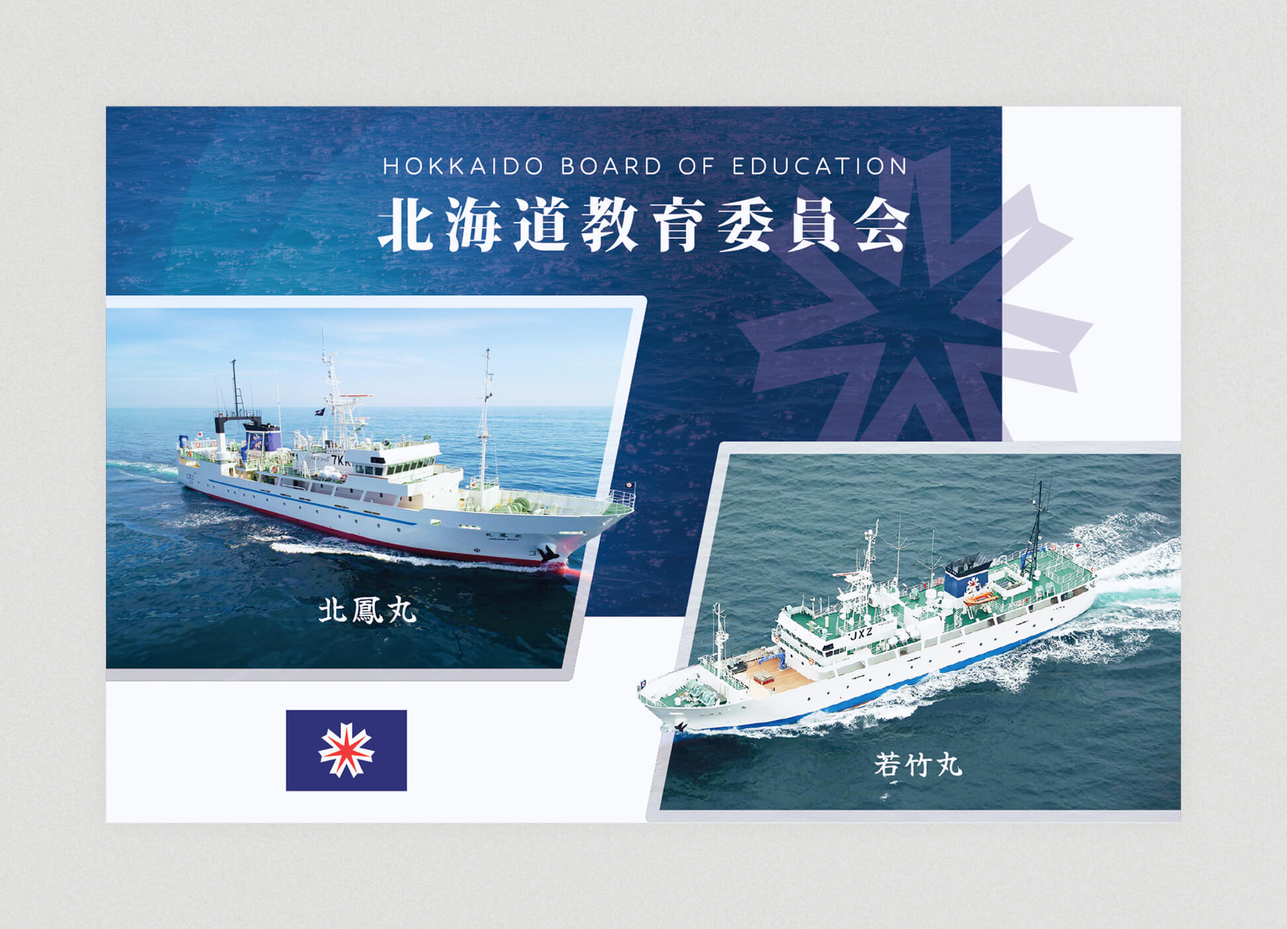
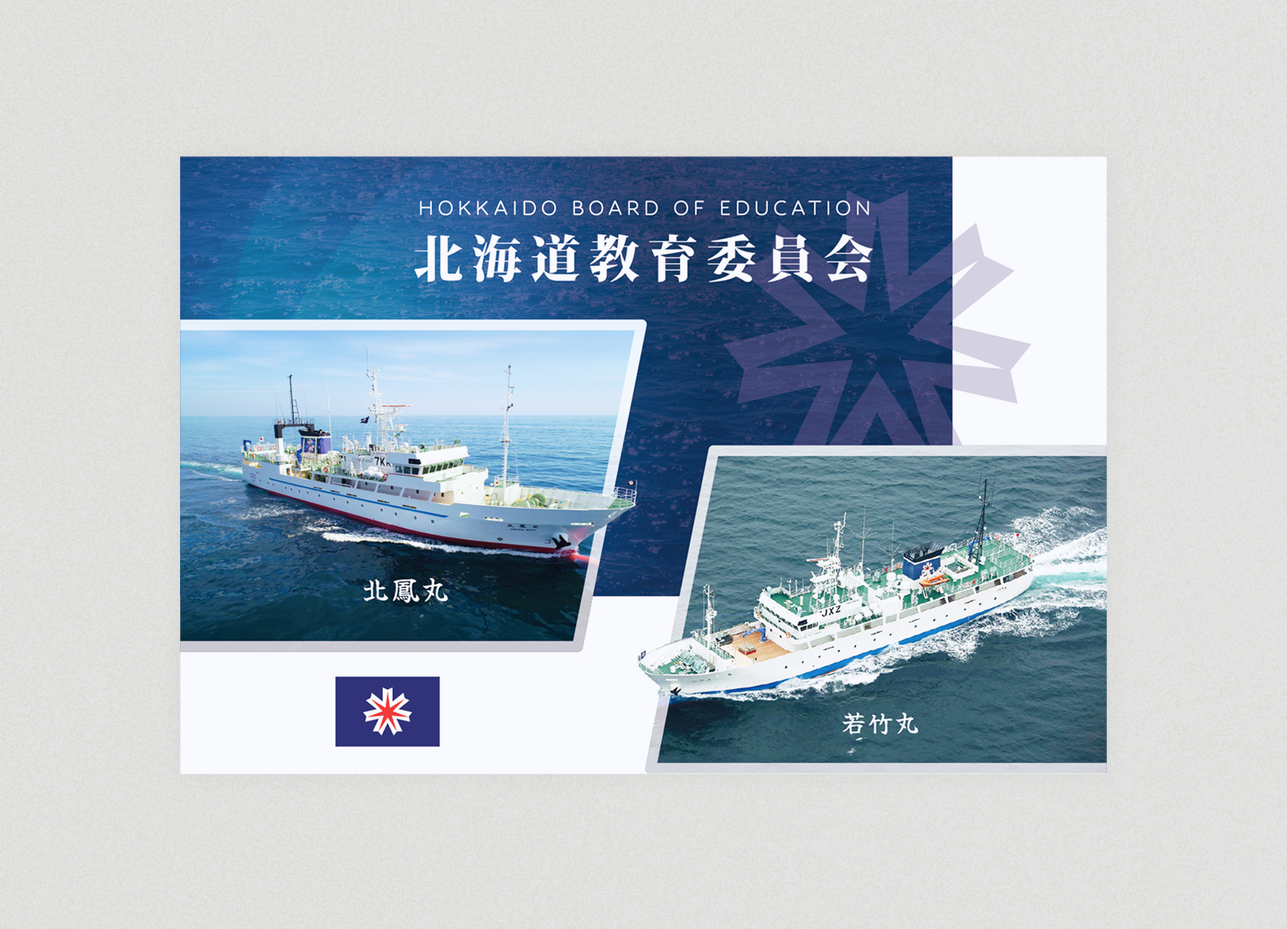
文章修正

diff --git a/works-keitonoyaoyasan.html b/works-keitonoyaoyasan.html
@@ -278,7 +278,9 @@
               「八百屋さんみたいな感じで、いろんな野菜が並んでたら可愛くないかな？」
             </h3>
             <p class="p-work-story__text">
-              普段は保育士として働きながら、趣味で始めた野菜の編みぐるみをminneやメルカリなどで販売しているハンドメイド作家で、私の知り合いでもあるponさん。BASEでオンラインショップを作ったり編み図を販売したいと考えているタイミングで、「作品だけでなく、自分らしい世界観も伝えられる場所を作りたい。」という相談をいただきました。
+              普段は保育士として働きながら、趣味で始めた野菜の編みぐるみをminneやメルカリなどで販売している、ハンドメイド作家で私の知り合いでもあるponさん。<br
+                class="sp-only"
+              />BASEでオンラインショップを作ったり編み図を販売したいと考えているタイミングで、「作品だけでなく、自分らしい世界観も伝えられる場所を作りたい。」という相談をいただきました。<br />
               そんな中、ブランドについて話をはじめてすぐに、ponさんの方から話してくれたアイデアが「八百屋さん」でした。その言葉から「毛糸の八百屋さん」というコンセプトが生まれ、その世界観をどう形にしていくか、一緒に整理することからスタートしました。
             </p>
           </div>
@@ -290,7 +292,7 @@
               <div class="p-work-story__content">
                 <p class="p-work-story__text">
                   ponさんの可愛らしい編みぐるみは、すべてひとあみひとあみ手作業で作られています。
-                  今ではたくさんの野菜や果物を販売していますが、始まりは思いつきで編んでみた1本のにんじん。試作を重ねたり、「こんなものも作れますか？」というオーダーに応えたりしながら、長い時間をかけて少しずつ種類が増えていったそうです。さらに、子どもの手になじむ形や、毛糸だけで作ることで安心して遊べる工夫には、保育士として子どもたちと向き合ってきたponさんならではの想いが込められているとも感じました。その話を聞いているうちに、私には「作品を作っている」というよりも、一つひとつの野菜を大切に「育てている」というイメージがまさに「毛糸の八百屋さん」の世界観とぴったりだな！と感じました。
+                  今ではたくさんの野菜や果物を販売していますが、始まりは思いつきで編んでみた1本のにんじん。試作を重ねたり、「こんなものも作れますか？」というオーダーに応えたりしながら、長い時間をかけて少しずつ種類が増えていったそうです。さらに、子どもの手になじむ形や、毛糸だけで作ることで安心して遊べる工夫には、保育士として子どもたちと向き合ってきたponさんならではの想いが込められているとも感じました。<br />そんな話を聞いているうちに、私には「作品を作っている」というよりも、一つひとつの野菜を大切に「育てている」というイメージがまさに「毛糸の八百屋さん」の世界観とぴったりだな！と感じました。
                 </p>
               </div>
               <div class="p-work-story__image">
@@ -321,7 +323,7 @@
                 </h3>
                 <p class="p-work-story__text">
                   だからこそ、サイトでは作品を並べるだけではなく、お気に入りの野菜を選ぶような楽しさや、一つひとつ違う個性にときめく体験そのものをブランドとして表現したいと考えました。サイト全体は、絵本をめくるように世界観を楽しめるデザインを意識し、「収穫日記」や「出荷」といった言葉も取り入れながら、八百屋を訪れたようなブランド体験を設計しました。<br />
-                  作品に出会い、ブランドを知り、その世界観に惹かれ、「これがほしい」と選んでもらえる。そんな世界観を届けられるを目指しました。
+                  作品に出会い、ブランドを知り、その世界観に惹かれ、「これがほしい」と選んでもらえる。そんな世界観を届けられるサイトを目指しました。
                 </p>
               </div>
             </div>
@@ -331,51 +333,55 @@
               ここからが本番！サイトもブランドも育ち続けます。
             </h3>
             <p class="p-work-story__text">
-              完成したサイトでは、Instagramやオンラインショップと連携し、ブランドとの接点がサイトだけで終わらないよう導線を設計しました。発送前にはInstagramで作品を紹介し、届くまでのワクワクを感じてもらう。作品と一緒にショップカードを同封し、サイトを訪れるきっかけをつくる。さらに、収穫日記や新作情報を更新することで、ブランドに継続して触れてもらえる仕組みを考えました。とはいえ、「毛糸の八百屋さん」はまだオープンしたばかりです。これからどんなきっかけでサイトを見てもらえるのか、どんな作品に興味を持ってもらえるのか。アクセス分析を行いながら、コンテンツや導線を少しずつ改善し、ブランドサイトを育てていきたいと考えています。ponさんとは、「いつか子どもが『これ、毛糸の八百屋さんで買ったとうもろこしだよ！』って言いながら遊んでくれたら可愛いし嬉しいね。」と想像を膨らませたことがあります。そんなふうに、このブランドが誰かにとって身近な存在になってくれたら嬉しいです。
+              完成したサイトでは、Instagramやオンラインショップと連携し、ブランドとの接点がサイトだけで終わらないよう導線を設計しました。発送前にはInstagramで作品を紹介し、届くまでのワクワクを感じてもらう。作品と一緒にショップカードを同封し、サイトを訪れるきっかけをつくる。さらに、収穫日記や新作情報を更新することで、ブランドに継続して触れてもらえる仕組みを考えました。<br />ですが、「毛糸の八百屋さん」はまだオープンしたばかりです。これからどんなきっかけでサイトを見てもらえるのか、どんな作品に興味を持ってもらえるのか。アクセス分析を行いながら、コンテンツや導線を少しずつ改善し、ブランドサイトを育てていきたいと考えています。<br
+                class="sp-only"
+              />ponさんとは、「いつか子どもが『これ、毛糸の八百屋さんで買ったとうもろこしだよ！』って言いながら遊んでくれたら可愛いし嬉しいね。」と想像を膨らませたことがあります。そんなふうに、このブランドが誰かにとって身近な存在になってくれたら嬉しいです。
             </p>
           </div>
         </div>
       </section>
       <section class="p-work-output p-work-output--keitonoyaoyasan">
         <div class="p__inner--l">
-          <h2 class="visually-hidden">アウトプット</h2>
-          <div class="p-work-output__visuals-row">
+          <div class="p-work-output--inner">
+            <h2 class="visually-hidden">アウトプット</h2>
+            <div class="p-work-output__visuals-row">
+              <div class="p-work-output__visual-wrap">
+                <h3 class="p-work-output__title">LOGO</h3>
+                <img
+                  src="img/work--keitonoyaoyasan-logo.png"
+                  width="368"
+                  height="368"
+                  alt="毛糸の八百屋さん ハンドメイド作家ponのLOGO"
+                  loading="lazy"
+                  decoding="async"
+                />
+              </div>
+              <div class="p-work-output__visual-wrap">
+                <h3 class="p-work-output__title">SHOPCARD</h3>
+                <img
+                  src="img/work-output--keitonoyaoyasan-shopcard.jpg"
+                  width="654"
+                  height="368"
+                  alt="毛糸の八百屋さん ショップアードの表示"
+                  loading="lazy"
+                  decoding="async"
+                />
+              </div>
+            </div>
             <div class="p-work-output__visual-wrap">
-              <h3 class="p-work-output__title">LOGO</h3>
+              <h3 class="p-work-output__title">WEBSITE</h3>
               <img
-                src="img/work--keitonoyaoyasan-logo.png"
-                width="368"
-                height="368"
-                alt="毛糸の八百屋さん ハンドメイド作家ponのLOGO"
+                src="img/work-outpu-web--keitonoyaoyasan-web.jpg"
+                width="1120"
+                height="680"
+                alt="毛糸の八百屋さん ブランドサイトの表示"
                 loading="lazy"
                 decoding="async"
               />
             </div>
-            <div class="p-work-output__visual-wrap">
-              <h3 class="p-work-output__title">SHOPCARD</h3>
-              <img
-                src="img/work-output--keitonoyaoyasan-shopcard.jpg"
-                width="654"
-                height="368"
-                alt="毛糸の八百屋さん ショップアードの表示"
-                loading="lazy"
-                decoding="async"
-              />
-            </div>
-          </div>
-          <div class="p-work-output__visual-wrap">
-            <h3 class="p-work-output__title">WEBSITE</h3>
-            <img
-              src="img/work-outpu-web--katsumi-web.jpg"
-              width="1120"
-              height="680"
-              alt="毛糸の八百屋さん ブランドサイトの表示"
-              loading="lazy"
-              decoding="async"
-            />
           </div>
           <div class="p-work-output__url-wrap">
-            <a class="p-work-output__url" href="https://katsumitsushin.jp/">
+            <a class="p-work-output__url" href="https://keitonoyaoyasan.com/">
               <span class="p-work-output__url-name"
                 >毛糸の八百屋さんブランドサイト</span
               >

diff --git a/works-katsumi.html b/works-katsumi.html
@@ -180,7 +180,7 @@
               <div class="p-work-detail__info-row">
                 <dt class="p-work-detail__info-header">概要</dt>
                 <dd class="p-work-detail__info-data">
-                  通信インフラを支える企業のコーポレートサイトリニューアル。ヒアリングを通して見えてきた「人を愛し、人を信じる」という理念と、人々の日常を守る仕事の価値や、向き合う姿勢を形にしました。
+                  通信インフラを支える企業のコーポレートサイトをリニューアル。ヒアリングを重ねる中で見えてきた、「人を愛し、人を信じる」という理念にも通じる皆さんの温かな人柄や、当たり前の日常を支える仕事への想いを形にしました。
                 </dd>
               </div>
               <div class="p-work-detail__info-row">
@@ -263,11 +263,15 @@
           <h2 class="visually-hidden">ストーリー</h2>
           <div class="p-work-story__section">
             <h3 class="p-work-story__header">
-              プロジェクトのはじまりと、気さくで温かい勝見通信会社のみなさん
+              プロジェクトのはじまりと、気さくで温かい勝見通信会社のみなさん。
             </h3>
             <p class="p-work-story__text">
-              勝見通信工業さんから最初にいただいたご相談は、「画像1枚差し替えたい」というサイト運用のご依頼でした。
-              会社へ伺う日は、いつも駅まで送り迎えをしてくださったり、「暑いしコンビニ寄って冷たい飲み物買っていきましょうか！」とおもてなししてくださる勝見通信工業の社長とみなさん。打ち合わせで会話をしていく中で「せっかくなら、この機会にサイトも新しくする？！」「もっと明るい雰囲気のサイトがいいよね！」というみなさんの言葉からコーポレートサイトのリニューアルがスタートしました。
+              勝見通信工業さんから最初にいただいたご相談は、「画像1枚差し替えたい」というサイト運用のご依頼でした。<br
+                class="sp-only"
+              />
+              会社へ伺う日は、いつも駅まで送り迎えをしてくださったり、「暑いしコンビニ寄って冷たい飲み物買っていきましょうか！」とおもてなししてくださる勝見通信工業の社長とみなさん。<br
+                class="sp-only"
+              />打ち合わせで会話をしていく中で「せっかくなら、この機会にサイトも新しくする？！」「もっと明るい雰囲気のサイトがいいよね！」というみなさんの言葉からコーポレートサイトのリニューアルがスタートしました。
             </p>
           </div>
           <div class="p-work-story__section">
@@ -315,7 +319,9 @@
 
               <p class="p-work-story__text">
                 会話を重ねる中で感じた勝見通信工業様の魅力は、"人を愛し、人を信じる"という理念そのものにあると思いました。<br />
-                創業70年という歴史や実績だけではなく、人々の暮らしを支えることに誇りを持ち、プロフェッショナルとして向き合い続ける姿勢や、打ち合わせでお会いした皆さんの気さくで温かい人柄。その空気感こそ、勝見通信工業らしさだと感じました。
+                創業70年という歴史や実績だけではなく、人々の暮らしを支えることに誇りを持ち、プロフェッショナルとして向き合い続ける姿勢や、打ち合わせでお会いした皆さんの気さくで温かい人柄。その空気感こそ、勝見通信工業らしさだと感じました。<br
+                  class="sp-only"
+                />
                 そこで、「インフラ会社であることを伝えるサイト」ではなく、“人々の日常を支えている会社”を目指して設計を進めていきました。
               </p>
             </div>
@@ -323,13 +329,19 @@
           <div class="p-work-story__section p-work-story__section--grid03">
             <div class="p-work-story__content">
               <h3 class="p-work-story__header">
-                これからも勝見通信工業らしさを最適な形で
+                これからも、勝見通信工業らしさを一緒に。
               </h3>
               <p class="p-work-story__text">
-                完成したサイトでは、勝見通信工業が守っている"日常"や、働くみなさんが大切にしている想い・人柄が伝わるデザインを目指しました。
+                完成したサイトでは、勝見通信工業が守っている"日常"や、働くみなさんが大切にしている想い・人柄が伝わるデザインを目指しました。<br
+                  class="sp-only"
+                />
                 また、採用強化のためSNS投稿に力を入れているとのお話だったので、Instagramと連携して最新の投稿がサイト上でも見られる設計に。
-                Instagram投稿からサイトを訪れた方や、お仕事を依頼したいと考えている方が、サイトに訪れて、「この会社の”人たち”と一緒に仕事がしたい。」そんな気持ちにつながるサイトになっていたら、嬉しく思います。
-                <br />そして今回の公開をゴールにするのではなく、これからも勝見通信工業さんと一緒に、より良い形にするための次の一手を考え続けていきたいと思っています。
+                Instagram投稿からサイトを訪れた方や、お仕事を依頼したいと考えている方が、サイトに訪れて、「この会社の”人たち”と一緒に仕事がしたい。」そんな気持ちにつながるサイトになっていたら、嬉しく思います。<br
+                  class="sp-only"
+                />
+                <br />そして今回の公開をゴールにするのではなく、これからも勝見通信工業さんと一緒に、より良い形にするための次の一手を考え続けていきたいと思っています。<br
+                  class="sp-only"
+                />
               </p>
             </div>
             <img
@@ -348,14 +360,24 @@
           <h2 class="visually-hidden">アウトプット</h2>
           <div class="p-work-output__visual-wrap">
             <h3 class="p-work-output__title">WEBSITE</h3>
-            <img
-              src="img/work-outpu-web--katsumi.jpg"
-              width="1120"
-              height="680"
-              alt="勝見通信工業株式会社 コーポレートサイトの表示"
-              loading="lazy"
-              decoding="async"
-            />
+            <div class="p-work-output__website-wrap">
+              <img
+                src="img/work-outpu-web--katsumi.jpg"
+                width="1120"
+                height="680"
+                alt="勝見通信工業株式会社 コーポレートサイトの表示"
+                loading="lazy"
+                decoding="async"
+              />
+              <img
+                src="img/work-outpu-web--katsumi-2.jpg"
+                width="1120"
+                height="680"
+                alt="勝見通信工業株式会社 コーポレートサイトの表示"
+                loading="lazy"
+                decoding="async"
+              />
+            </div>
           </div>
           <div class="p-work-output__url-wrap">
             <a class="p-work-output__url" href="https://katsumitsushin.jp/">

diff --git a/about.html b/about.html
@@ -186,14 +186,16 @@
             </div>
             <div class="p-about__profile-text">
               <p>
-                1998年生まれ / 千葉県在住<br />
+                1998年北海道生まれ / 千葉県在住<br />
                 前職では、Web制作会社でディレクションから実装まで一貫して経験し、現在は転職活動を行いながら個人でも活動しています。
               </p>
               <p>
-                課題や目的を整理しながら、その人らしい魅力を見つけ、伝わる形にすることを大切にしています。「粘り強く」をモットーに、より良い形を探し続けることで、届けたい相手の心に届く、意味のあるものづくりを目指しています。
+                モットーは「粘り強く」、座右の銘は「迷ったらGO」。<br />
+                制作においても、妥協せずにより良い形を探し続けること、新しいことに挑戦する気持ちを忘れずにいたいと思っています。
               </p>
               <p>
-                私の「三代しあわせ」は、寝ること・美味しいものを食べること・ライブへ行くこと。この時間がものづくりへのアイデアとエネルギーになっています！
+                趣味は、寝る・美味しいものを食べる・ライブへ行くこと。<br />
+                この時間がものづくりへのアイデアとエネルギーになっています！
               </p>
             </div>
           </div>
@@ -250,7 +252,7 @@
                 </div>
                 <h3 class="visually-hidden">コーディング</h3>
                 <p class="p-about__skill-text">
-                  届ける・行動につながるための サイトを実装します。
+                  届ける・行動につながるためのサイトを実装します。
                 </p>
               </article>
             </div>
@@ -306,17 +308,15 @@
                 私は、制作の過程で「向き合う」ことを大切にしています。<br
                   class="pc-only"
                 />
-                ものづくりの目的は、向き合う時間の中で少しずつ見えてきて、<br
-                  class="pc-only"
-                />
-                時間に追われているとき、デザインの答えが見つからないときなど。私はよく、自分に問いかけるようにしています。
+                一つひとつに向き合い、考え続けることで、少しずつ見えてくるものがあると思っています。
+                でも制作に迷ったとき、
               </p>
               <p class="p-about__policy-question">
-                「私は今、ちゃんと向き合えてるのかな？」<br />
-                「そもそも向き合うってなんだ？？」
+                「私は今、ちゃんと向き合えてる？」<br />
+                「そもそも向き合うって何に？誰に？」
               </p>
               <p>
-                そんな疑問から、私なりの「向き合う」について考えてみました。
+                と、わからなくなってしまうことも。<br />そこで改めて、私にとっての「向き合う」を整理してみました。
               </p>
             </div>
             <div class="p-about__policy-copy">

diff --git a/index.html b/index.html
@@ -268,10 +268,10 @@
                 WEB制作では、ディレクションから実装までを一貫して取り組んでいます。
               </p>
               <p>
-                相手の想いや課題に向き合い、まだ見えていない魅力や本当に届けたいことを見つけることから始めています。
+                相手の想いや課題に丁寧に向き合い、まだ言葉になっていない魅力や、本当に伝えたいことを一緒に見つけていくことを大切にしています。
               </p>
               <p>
-                その価値が届けたい相手へ自然と伝わる形を探し続け、伝わるまで一緒につくり上げていくものづくりを大切にしています。
+                その価値を誰に、どんな形で届けるのが一番いいのかを一緒に考え、より良い形を探し続ける。そんなものづくりを大切にしています。
               </p>
             </div>
             <div class="about__visual">
@@ -372,7 +372,7 @@
                     </div>
                     <div class="work-card__text">
                       <p>
-                        通信インフラを支える企業のコーポレートサイトリニューアル。ヒアリングを通して見えてきた「人を愛し、人を信じる」という理念と、人々の日常を守る仕事の価値や、向き合う姿勢を形にしました。
+                        通信インフラを支える企業のコーポレートサイトをリニューアル。ヒアリングを重ねる中で見えてきた、「人を愛し、人を信じる」という理念にも通じる皆さんの温かな人柄や、当たり前の日常を支える仕事への想いを形にしました。
                       </p>
                     </div>
                   </div>

diff --git a/css/style.css b/css/style.css
@@ -1753,6 +1753,11 @@ body.is-hero-start .hero__shape--arch-green {
   border-radius: 8px;
   width: 100%;
 }
+.p-work-output__website-wrap {
+  display: flex;
+  flex-direction: column;
+  gap: 80px;
+}
 .p-work-output__url-wrap {
   text-align: center;
   margin-top: 32px;
@@ -1777,7 +1782,7 @@ body.is-hero-start .hero__shape--arch-green {
   z-index: 0;
 }
 .p-work-output__btn {
-  margin-top: 32px;
+  margin-top: 48px;
   margin-bottom: 120px;
 }
 .p-work-output__visuals-row {
@@ -1957,6 +1962,9 @@ body.is-hero-start .hero__shape--arch-green {
   }
   .p-work-output__visual-web img {
     border-radius: 8px;
+  }
+  .p-work-output__website-wrap {
+    gap: 32px;
   }
   .p-work-output__url {
     display: block;
